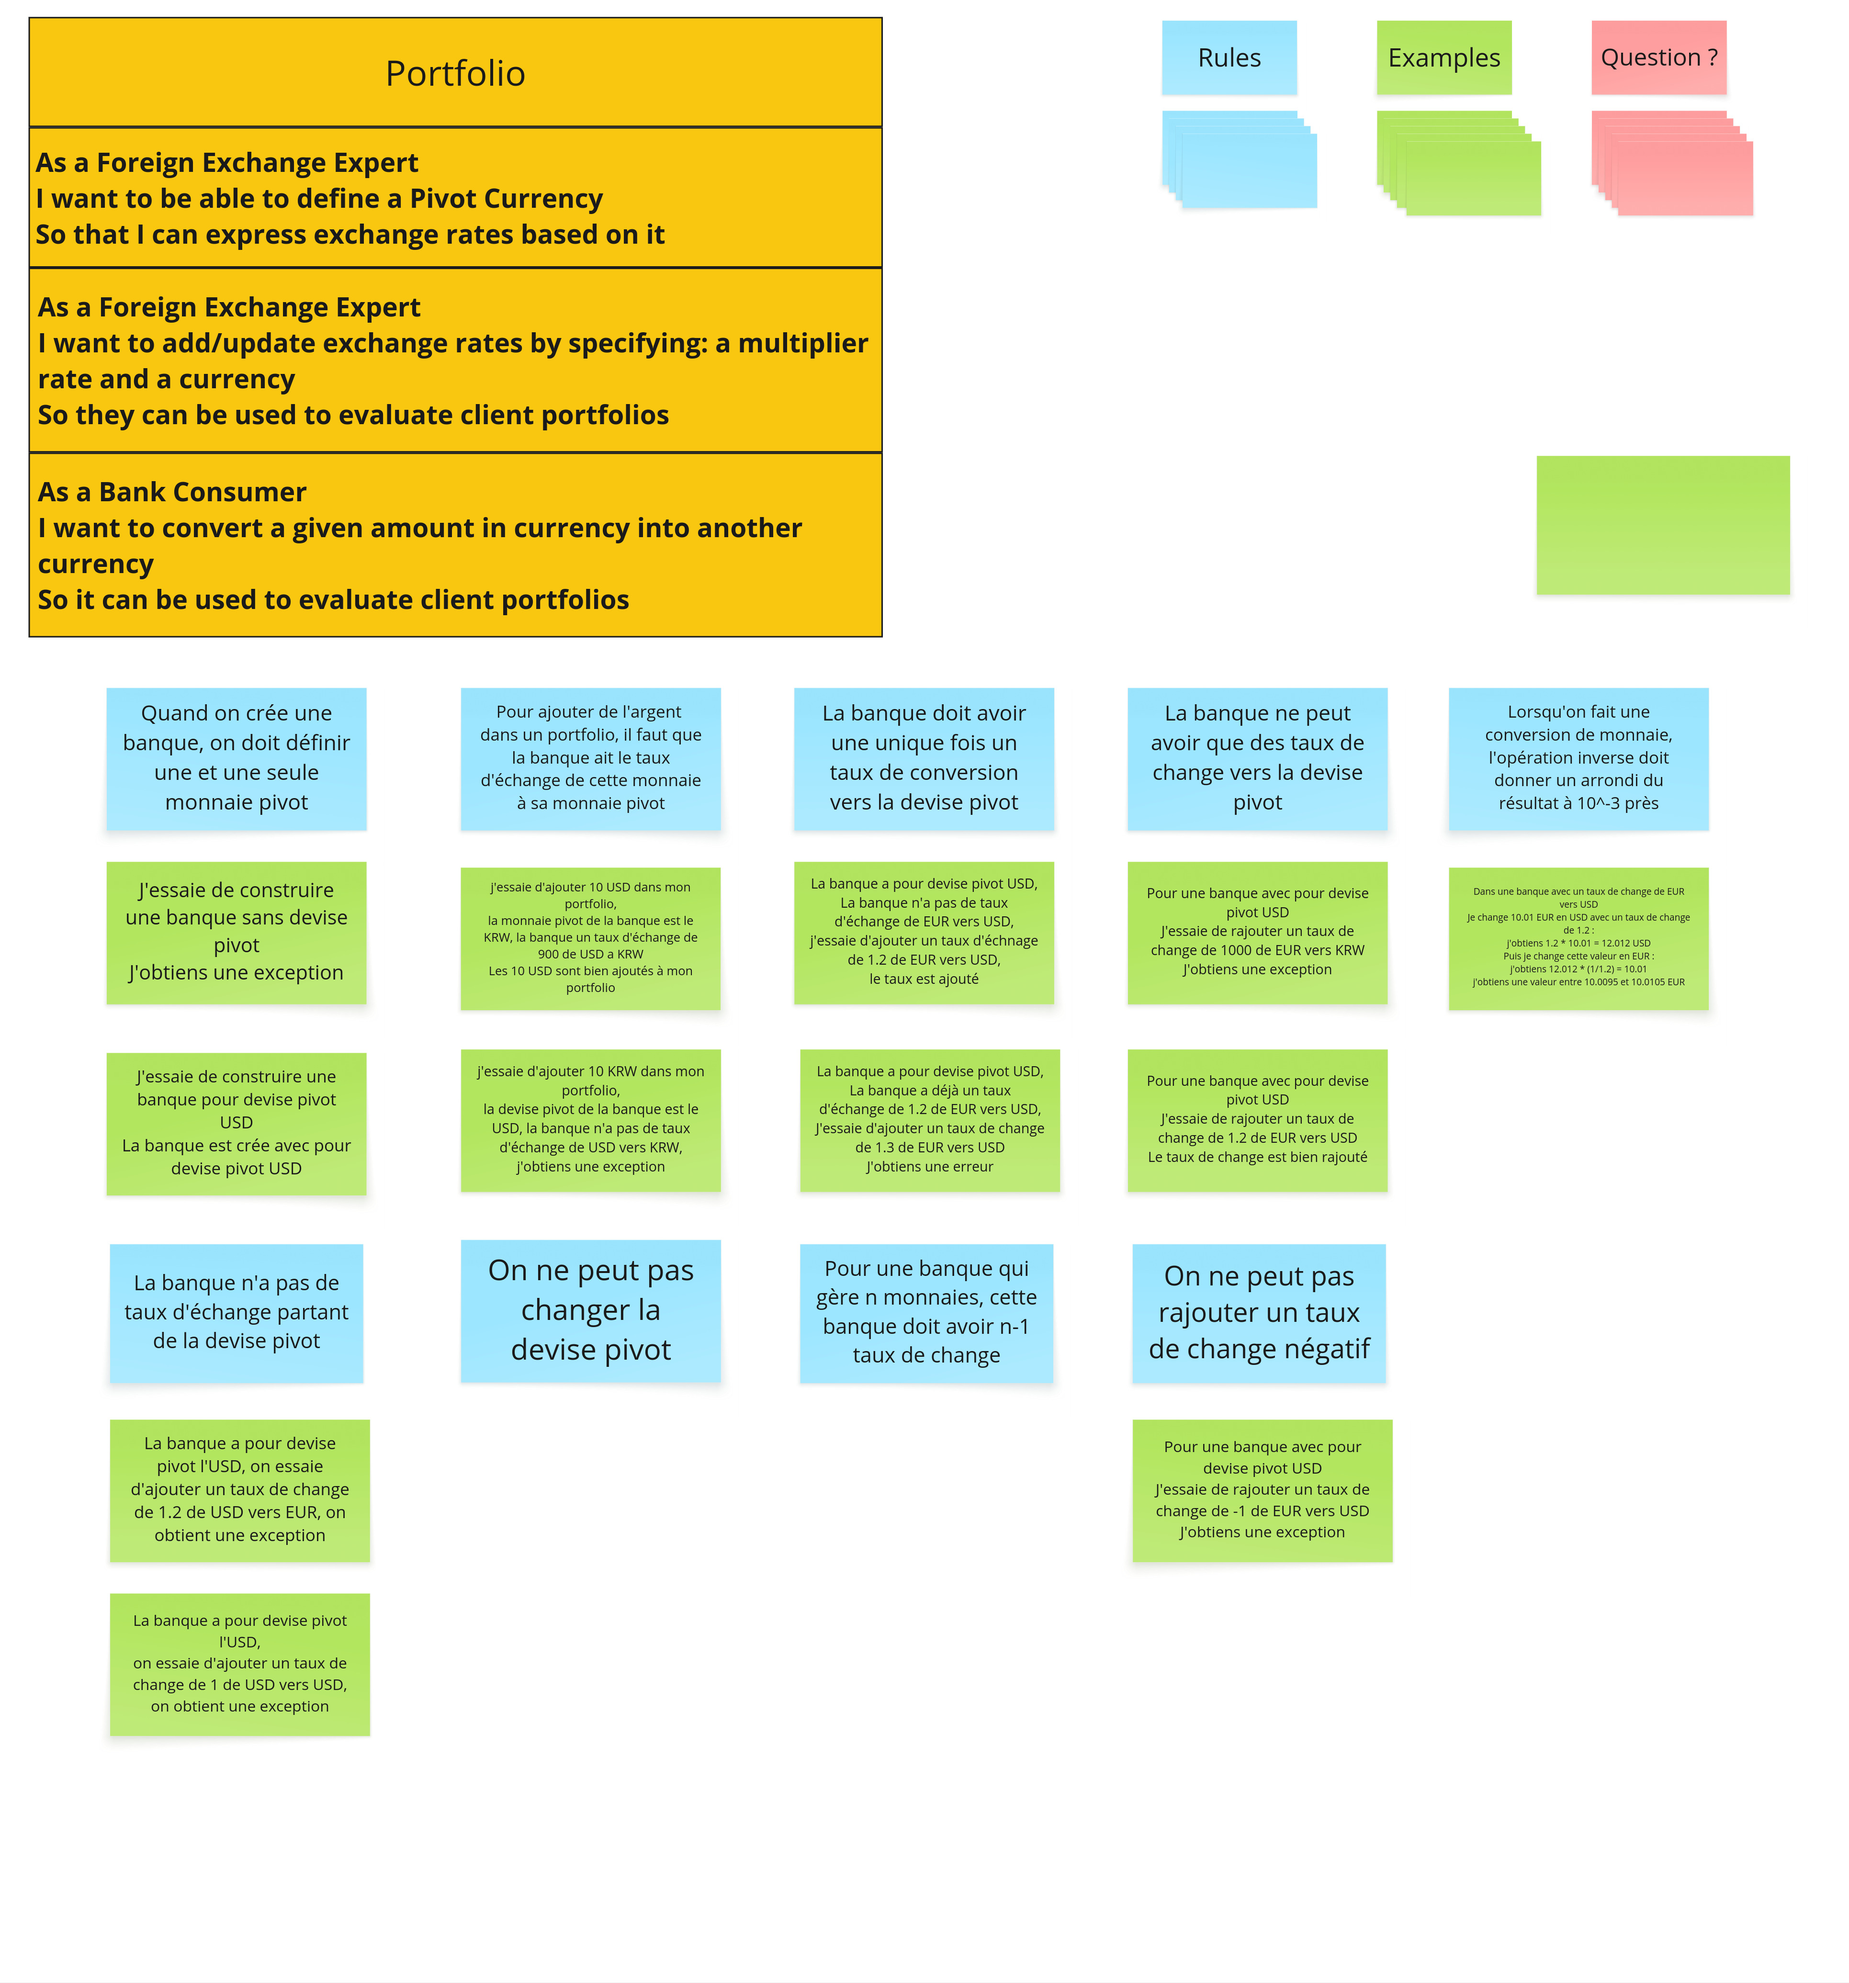
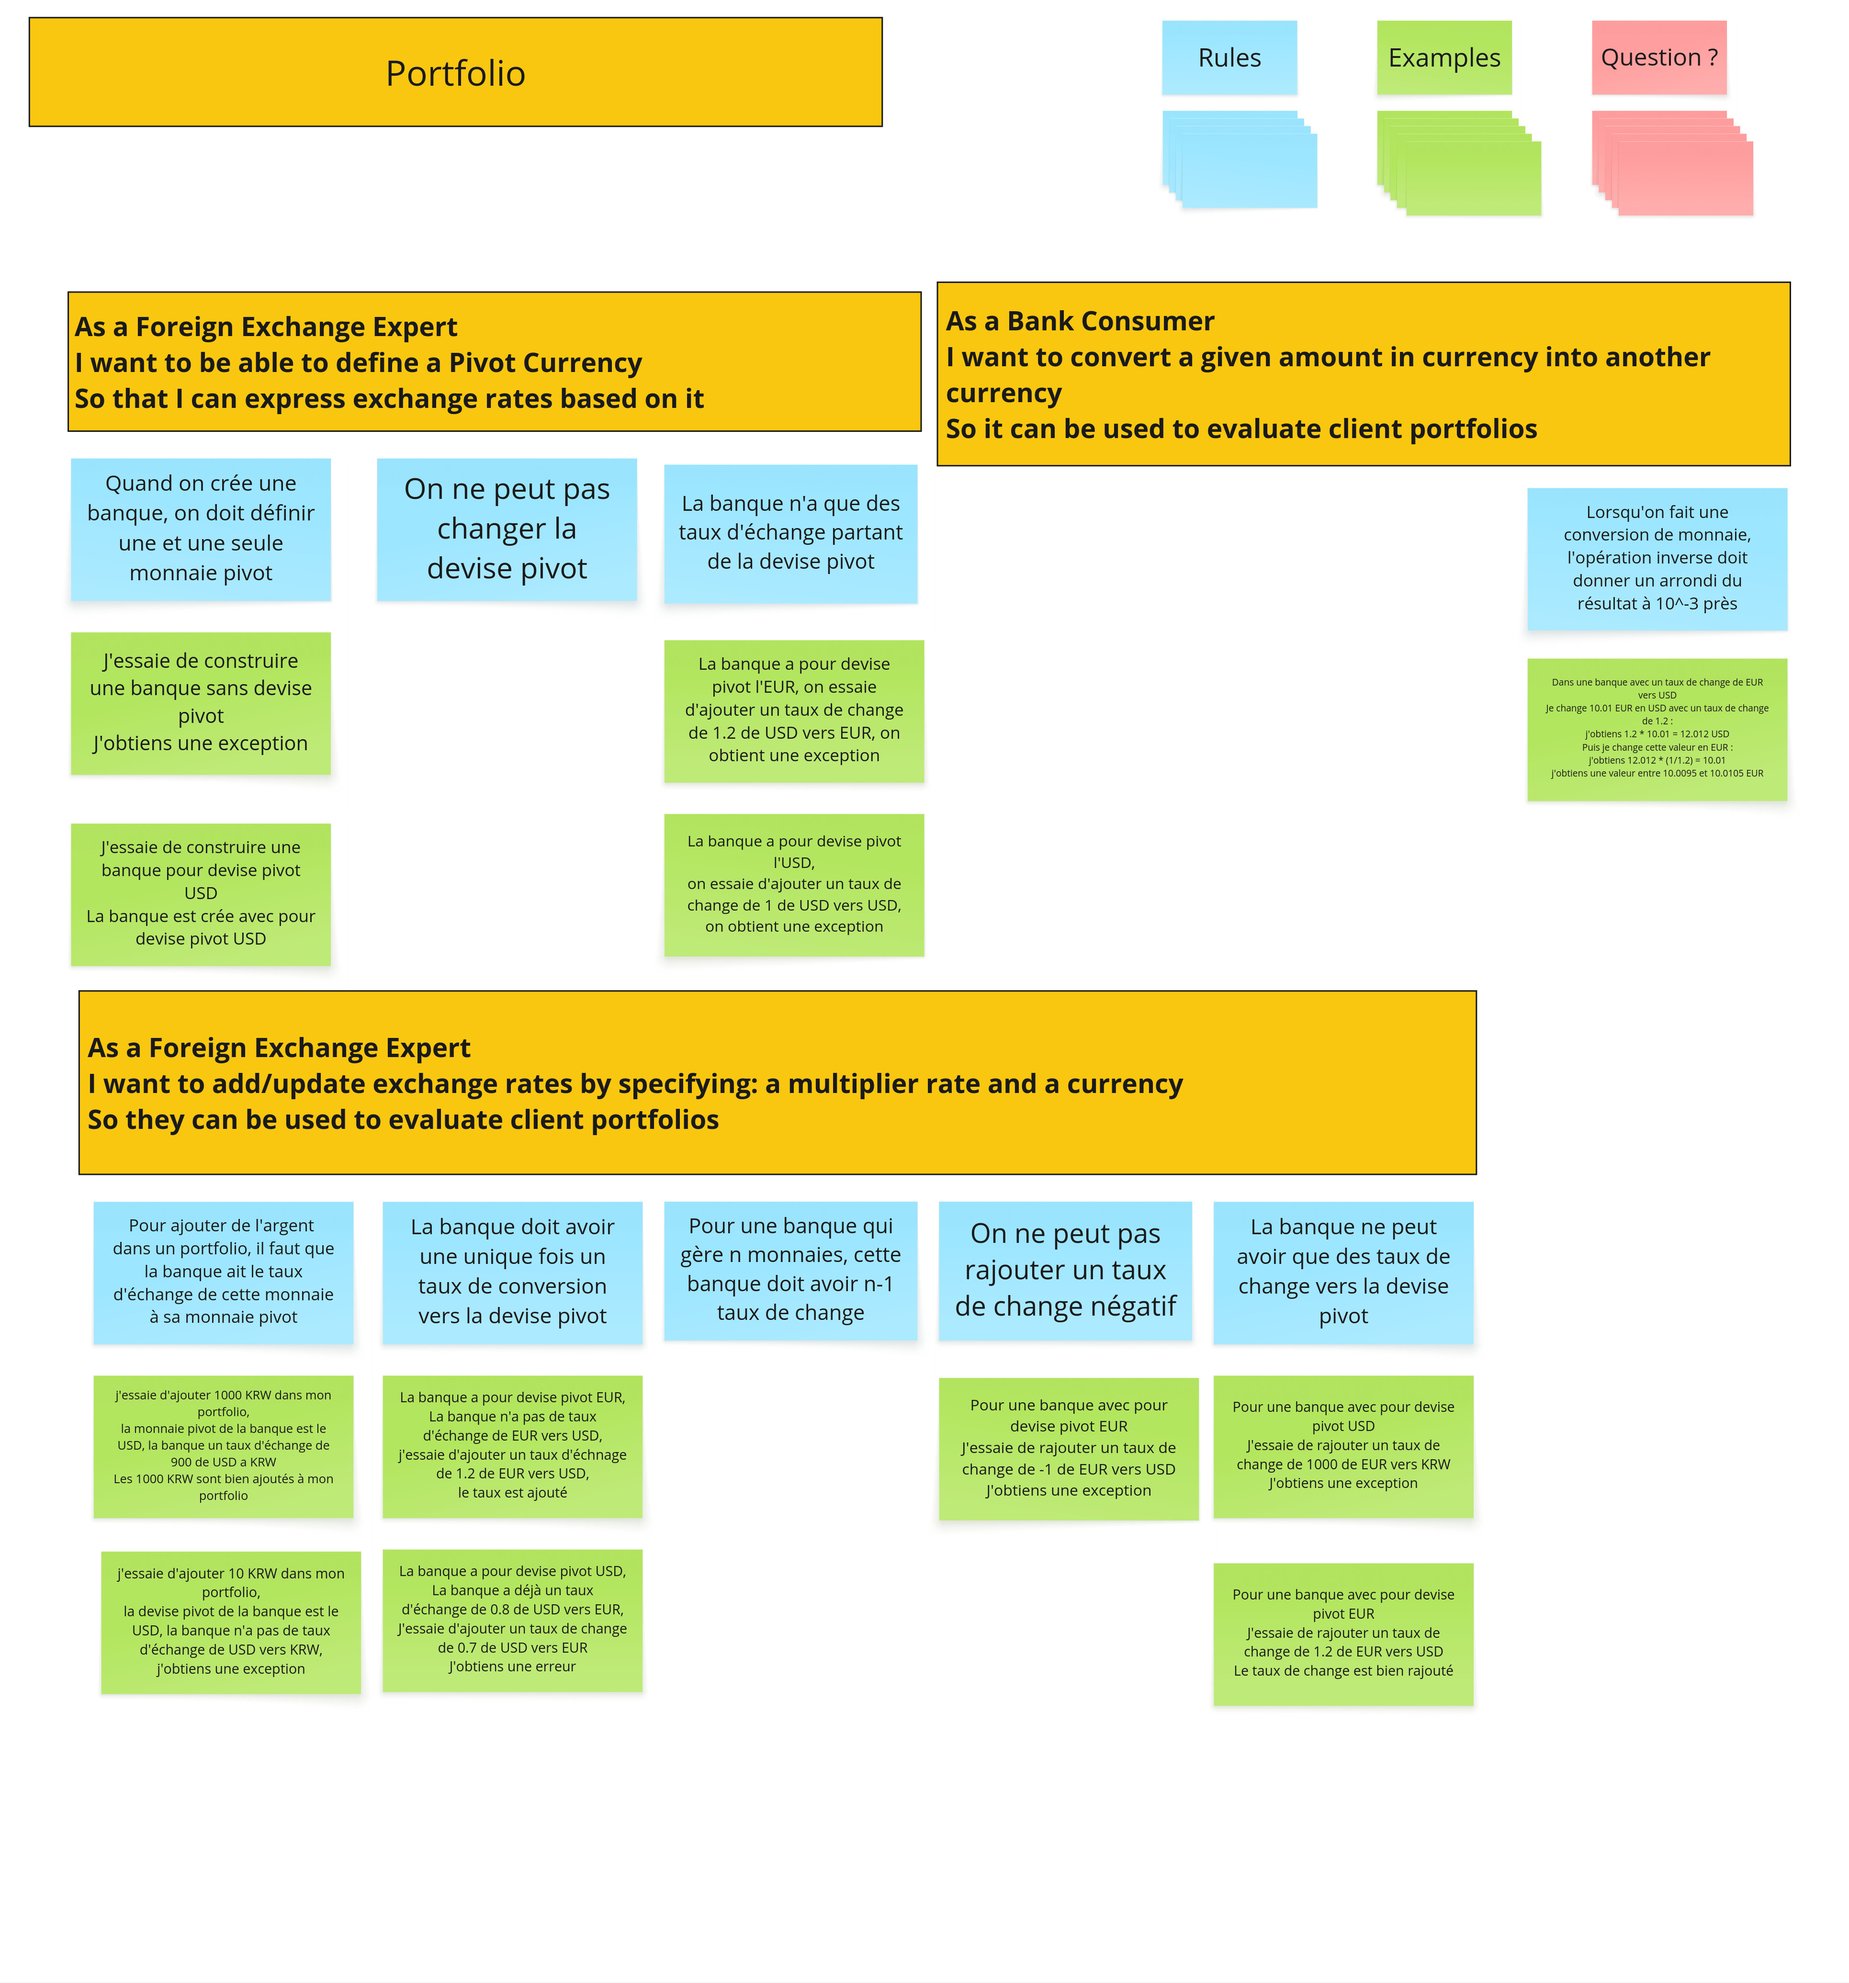
added markdown for 11-example-mapping

diff --git a/docs/solution/11-example-mapping.md b/docs/solution/11-example-mapping.md
@@ -1,28 +1,36 @@
 # Example Mapping
 
-## Format de restitution
-*(rappel, pour chaque US)*
-
-```markdown
-## Titre de l'US (post-it jaunes)
-
-> Question (post-it rouge)
-
-### Règle Métier (post-it bleu)
-
-Exemple: (post-it vert)
-
-- [ ] 5 USD + 10 EUR = 17 USD
-```
-
-Vous pouvez également joindre une photo du résultat obtenu en utilisant les post-its.
+![Resultat de l'exemple mapping](../img/Example_Mapping_devise_pivot.jpg)
 
 ## Story 1: Define Pivot Currency
-
 ```gherkin
 As a Foreign Exchange Expert
 I want to be able to define a Pivot Currency
 So that I can express exchange rates based on it
+```
+
+> Une fois la banque créée, peut-on ajouter d'autres devises pivots secondaires ?
+
+### Règle Métier: Une banque doit avoir une et une seule monnaie pivot à sa création.
+
+```gherkin
+Given je construis une banque avec pour devise pivot USD
+Then la banque est créée avec pour devise pivot USD
+```
+
+### Règle Métier: On ne peut pas créer une banque sans devise pivot.
+
+```gherkin
+Given j'essaie de construire une banque sans devise pivot
+Then j'obtiens une exception
+```
+
+### Règle Métier: On ne peut pas changer la devise pivot d'une banque existante.
+
+```gherkin
+Given une banque avec pour devise pivot l'EUR
+When j'essaie de changer la devise pivot
+Then l'opération échoue
 ```
 
 ## Story 2: Add an exchange rate
@@ -30,6 +38,40 @@ So that I can express exchange rates based on it
 As a Foreign Exchange Expert
 I want to add/update exchange rates by specifying: a multiplier rate and a currency
 So they can be used to evaluate client portfolios
+```
+
+> Peut-on avoir un taux de change d'une devise non-pivot vers une autre devise non-pivot si cela simplifie des calculs fréquents ?
+
+### Règle Métier: La banque ne peut avoir que des taux de change depuis la devise pivot vers une autre devise.
+
+```gherkin
+Given une banque avec pour devise pivot USD
+When j'essaie d'ajouter un taux de change de 1000 de EUR vers KRW
+Then j'obtiens une exception
+```
+
+### Règle Métier: La banque doit avoir un seul taux de conversion par devise (de la pivot vers une autre).
+
+```gherkin
+Given une banque avec pour devise pivot USD et un taux existant de 0.8 de USD vers EUR
+When j'essaie d'ajouter un nouveau taux de 0.7 de USD vers EUR
+Then j'obtiens une erreur
+```
+
+### Règle Métier: On ne peut pas ajouter un taux de change négatif.
+
+```gherkin
+Given une banque avec pour devise pivot EUR
+When j'essaie d'ajouter un taux de change de -1 de EUR vers USD
+Then j'obtiens une exception
+```
+
+### Règle Métier: On ne peut pas ajouter un taux pour la devise pivot vers elle-même.
+
+```gherkin
+Given une banque a pour devise pivot l'USD
+When on essaie d'ajouter un taux de change de 1 de USD vers USD
+Then on obtient une exception
 ```
 
 ## Story 3: Convert a Money
@@ -40,6 +82,34 @@ I want to convert a given amount in currency into another currency
 So it can be used to evaluate client portfolios
 ```
 
+> Que se passe-t-il si nous voulons convertir dans une devise inconnue du système ?
 
+### Règle Métier: Pour ajouter de l'argent dans un portfolio, la banque doit avoir le taux de cette monnaie vers la monnaie pivot.
 
+```gherkin
+Given une banque avec pour devise pivot USD et un taux d'échange de 900 de USD vers KRW
+When j'essaie d'ajouter 1000 KRW dans mon portfolio
+Then les 1000 KRW sont bien ajoutés à mon portfolio
+```
 
+```gherkin
+Given une banque avec pour devise pivot USD et sans taux d'échange de USD vers KRW
+When j'essaie d'ajouter 10 KRW dans mon portfolio
+Then j'obtiens une exception
+```
+
+### Règle Métier: Une conversion de monnaie, suivie de l'opération inverse, doit redonner un résultat à 10⁻³ près du montant original (Round-Tripping).
+
+```gherkin
+Given une banque avec pour devise pivot l'EUR et un taux de change de 1.2 de EUR vers USD
+When je change 10.01 EUR en USD (j'obtiens 12.012 USD) et que je change cette valeur en EUR
+Then j'obtiens une valeur entre 10.0095 et 10.0105 EUR
+```
+
+### Règle Métier: La conversion utilise le taux depuis la devise pivot.
+
+```gherkin
+Given une banque avec pour devise pivot EUR et un taux de change de 1.2 de EUR vers USD
+When je convertis 10 EUR en USD
+Then je reçois 12 USD
+```
